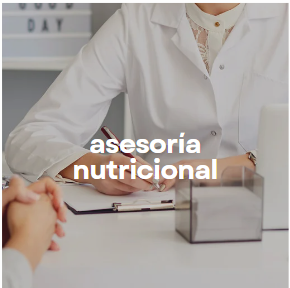
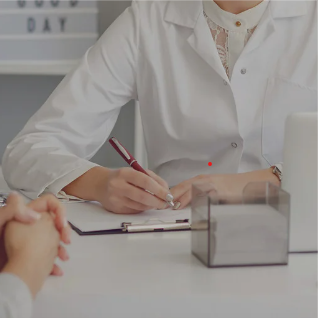
last Update from pc

diff --git a/src/layout/Resume.tsx b/src/layout/Resume.tsx
@@ -4,6 +4,14 @@ import fotoPerfil from "../assets/img/ViannySmilingonBooks.webp";
 import Message from "../components/Message";
 
 function Resume() {
+  function convertirMayusculas(texto: string) {
+    if (typeof texto === "string") {
+      return texto.toUpperCase();
+    } else {
+      // Manejar el caso cuando la entrada no es una cadena
+      return "Error: La entrada no es una cadena";
+    }
+  }
   return (
     <>
       <Divider id="" mt="100px" mb="100px" />
@@ -20,20 +28,30 @@ Y DEPORTE "
           <div>
             <h1 className="resume-title text-[60px]">Mis estudios</h1>
             <Experience
-              title="TÍTULO DE NUTRICIONISTA"
-              info="UNIVERSIDAD DE LOS ANDES"
+              title={convertirMayusculas(
+                "Título de Nutricionista mención deporte"
+              )}
+              info={convertirMayusculas("Universidad de Los AndeS - CHILE")}
             />
             <Experience
-              title="MENCIÓN NUTRICIÓN DEPORTIVA"
-              info="OLD GRANGONIAN CLUB Y CLUB DE FÚTBOL RECOLETA"
+              title={convertirMayusculas("master en coaching y mindfulness")}
+              info={convertirMayusculas("eneb x universidad isabel i - españa")}
             />
             <Experience
-              title="DIPLOMADO EN NUTRICIÓN DEPORTIVA"
-              info="BARÇA INNOVATION HUB, CLUB DE FÚTBOL BARCELONA"
+              title={convertirMayusculas("Diplomado en Nutrición Deportiva")}
+              info={convertirMayusculas(
+                "Barça Innovation Hub, Club de Fútbol Barcelona - ESPAña"
+              )}
             />
             <Experience
-              title="CERTIFICACIÓN INTERNACIONAL EN PSICONUTRICIÓN"
-              info="INSTITUTO VIVE SANO BRASIL"
+              title={convertirMayusculas("CERTIFICACIÓN ISAK NIVEL 1")}
+              info={convertirMayusculas("STRONG AND FIT CENTER - chile")}
+            />
+            <Experience
+              title={convertirMayusculas(
+                "CERITIFCAción internacional en psiconutrición"
+              )}
+              info={convertirMayusculas("instituto vive sano - brasil")}
             />
           </div>
         </div>

diff --git a/src/layout/Inicio.tsx b/src/layout/Inicio.tsx
@@ -7,20 +7,20 @@ function Inicio() {
   return (
     <div id="Inicio" className="container">
       <div
-        className="grid grid-cols-2 max-[700px]:grid-cols-1 "
+        className="grid grid-cols-2 max-[700px]:grid-cols-1"
         style={{ fontFamily: "Raleway" }}
       >
-        <div className="self-center mt-[30vh] max-[700px]:mt-0">
-          <h1 className="text-5xl">
+        <div className="self-center ">
+          <h1 className="text-5xl mt-40">
             NUTRICIONISTA <br></br>VIANNY MACERO
           </h1>
         </div>
-        <div className="grid grid-cols-2 gap-4 max-[700px]:mt-20">
-          <div className="-mt-10 max-[700px]:mt-10">
+        <div className="grid grid-cols-2 gap-4 max-[700px]:mt-20  ">
+          <div className="-mt-20 max-[700px]:mt-10">
             <div className="grid grid-cols-1 gap-4">
               <div className="w-full">
                 <img
-                  height="250px"
+                  height="50%"
                   width="100%"
                   className="float-right"
                   src={inicio}
@@ -28,7 +28,7 @@ function Inicio() {
               </div>
               <div className="w-full">
                 <img
-                  height="250px"
+                  height="50%"
                   width="100%"
                   className="float-right"
                   src={ViannyLookingPhone}
@@ -36,10 +36,14 @@ function Inicio() {
               </div>
             </div>
           </div>
-          <div className="pt-10 max-[700px]:pt-0">
+          <div className="pt-0">
             <div className="grid grid-cols-1 gap-4">
-              <img height="250px" width="100%" src={ViannyOnBooks}></img>
-              <img height="250px" width="100%" src={FruitAndPhone}></img>
+              <div className="w-full">
+                <img height="50%" width="100%" src={ViannyOnBooks}></img>
+              </div>
+              <div className="w-full">
+                <img height="50%" width="100%" src={FruitAndPhone}></img>
+              </div>
             </div>
           </div>
         </div>

diff --git a/src/layout/NutritionalMessage.tsx b/src/layout/NutritionalMessage.tsx
@@ -4,19 +4,15 @@ function NutritionalMessage() {
   return (
     <>
       <Divider id="" mt="100px" mb="100px" />
-      <div className="container z-depth-4">
-        <div className="row">
-          <Message
-            usedClass="col s12 nutritional-message mt-[150px] max-[700px]:text-[70px]"
-            data={`La verdad es... que no me importa tu peso. \n Mi enfoque de atención no sólo considera tu \n alimentación, también voy a abordar tu \n mente, cuerpo y espíritu. `}
-          />
-          <div className="row">
-            <Message
-              data="     Porque la salud es multifacética"
-              usedClass="col s12 nutritional-message-styled"
-            />
-          </div>
-        </div>
+      <div className="container">
+        <Message
+          usedClass=" nutritional-message text-3xl  max-[700px]:text-2xl"
+          data={`La verdad es... <strong >que no me importa tu peso.</strong> \n Mi enfoque de atención no sólo considera tu \n alimentación, también voy a abordar tu \n <strong>mente, cuerpo y espíritu.</strong>`}
+        />
+        <Message
+          data="     Porque la salud es multifacética"
+          usedClass="nutritional-message-styled text-4xl mt-4 max-[700px]:text-3xl "
+        />
       </div>
     </>
   );

diff --git a/src/layout/TypeAdvisory.tsx b/src/layout/TypeAdvisory.tsx
@@ -1,7 +1,7 @@
 import SegmentTitle from "../components/SegmentTitle";
 import Image from "../components/Image";
 import Divider from "../components/Divider";
-import firstImage from "../assets/img/Presencial.png";
+import firstImage from "../assets/img/asesoria_nutricional.png";
 import secondImage from "../assets/img/viannySmillingLaptop.webp";
 import TirdImage from "../assets/img/LaptopForm.png";
 
@@ -29,7 +29,7 @@ function TypeAdvisory() {
           <Image
             route={firstImage}
             url="https://encuadrado.com/p/vianny-macero/"
-            firsText=""
+            firsText="Presencial"
             secodText=""
           />
 

diff --git a/src/layout/ImageLeft.tsx b/src/layout/ImageLeft.tsx
@@ -1,0 +1,23 @@
+import Divider from "../components/Divider";
+import ViannyLookingLaptop from "../assets/img/ViannyLookingLaptop.webp";
+
+export default function ImageLeft() {
+  return (
+    <>
+      <Divider id="OnlineModality" mb="100px" mt="100px" />
+      <div className="grid grid-cols-2">
+        <div>
+          <img src={ViannyLookingLaptop} alt="Online Modality" />
+        </div>
+        <div>
+          <div>
+            <h1 className="text-[60px]" style={{ fontFamily: "Raleway" }}>
+              MODALIDAD ONLINE
+            </h1>
+            <p></p>
+          </div>
+        </div>
+      </div>
+    </>
+  );
+}

diff --git a/src/components/PageMenu.tsx b/src/components/PageMenu.tsx
@@ -6,20 +6,22 @@ function PageMenu() {
           <a href="#Inicio">Inicio</a>
         </li>
         <li>
-          <a href="#about">Acerca de</a>
+          <a href="#about">Conóceme</a>
         </li>
-        <li>
+        {/* <li>
           <a href="#Servicios">Servicios</a>
-        </li>
+        </li> */}
         <li>
           <a href="#Asesorias">Asesorias</a>
+        </li>
+        <li>
+          <a href="#Address">Ubicación</a>
         </li>
 
         <li>
           <a href="#contacto">Contacto</a>
         </li>
       </ul>
-
     </>
   );
 }

diff --git a/src/App.tsx b/src/App.tsx
@@ -8,6 +8,7 @@ import NutritionalMessage from "./layout/NutritionalMessage";
 import Resume from "./layout/Resume";
 import Reviews from "./layout/Reviews";
 import AboutMe from "./layout/AboutMe";
+import ImageLeft from "./layout/ImageLeft";
 function App() {
   return (
     <>
@@ -17,9 +18,10 @@ function App() {
       <AboutMe />
       <Resume />
       <SecondPart />
-      <AvalibleServices />
+      {/* <AvalibleServices /> */}
       <TypeAdvisory />
       <Reviews />
+      <ImageLeft />
     </>
   );
 }

diff --git a/src/components/Header.tsx b/src/components/Header.tsx
@@ -38,13 +38,16 @@ function Header() {
           <a href="#Inicio">Inicio</a>
         </li>
         <li>
-          <a href="#about">Acerca de</a>
+          <a href="#about">Conóceme</a>
         </li>
-        <li>
+        {/* <li>
           <a href="#Servicios">Servicios</a>
-        </li>
+        </li> */}
         <li>
           <a href="#Asesorias">Asesorias</a>
+        </li>
+        <li>
+          <a href="#Address">Ubicación</a>
         </li>
 
         <li>

diff --git a/src/components/Review.tsx b/src/components/Review.tsx
@@ -10,7 +10,7 @@ export default function Review({
       className="text-center w-full self-end"
       style={{ fontFamily: "Raleway" }}
     >
-      <div className="align-middle text-justify p-2">{description}</div>
+      <div className="align-middle text-center p-2">{description}</div>
       <div style={{ fontWeight: "bold" }} className="align-middle mt-3 text-xl">
         {name}
       </div>

diff --git a/src/components/Message.tsx b/src/components/Message.tsx
@@ -1,7 +1,9 @@
 function Message(props: { data: string; usedClass: string }) {
   const lines = props.data
     .split("\n")
-    .map((line, index) => <p key={index}>{line}</p>);
+    .map((line, index) => (
+      <p key={index} dangerouslySetInnerHTML={{ __html: line }}></p>
+    ));
 
   return (
     <div className={props.usedClass} style={{ fontFamily: "Raleway" }}>

diff --git a/src/css/App.css b/src/css/App.css
@@ -26,8 +26,6 @@
   font-family: Raleway;
 }
 .nutritional-message > p {
-  font-weight: 100;
-  font-size: 1.8vw;
   font-family: Raleway;
 }
 .nutritional-message {
@@ -37,9 +35,7 @@
   text-align: center;
 }
 .nutritional-message-styled > p {
-  margin-bottom: 200px;
   font-family: League script;
-  font-size: 3vw;
   font-weight: bold;
 }
 .Message-arial {

diff --git a/index.html b/index.html
@@ -18,7 +18,7 @@
       href="/src/css/materialize.min.css"
       media="screen,projection"
     />
-    <title>Nutricion</title>
+    <title>Asesoría Nutricional</title>
   </head>
   <body>
     <div id="root"></div>
